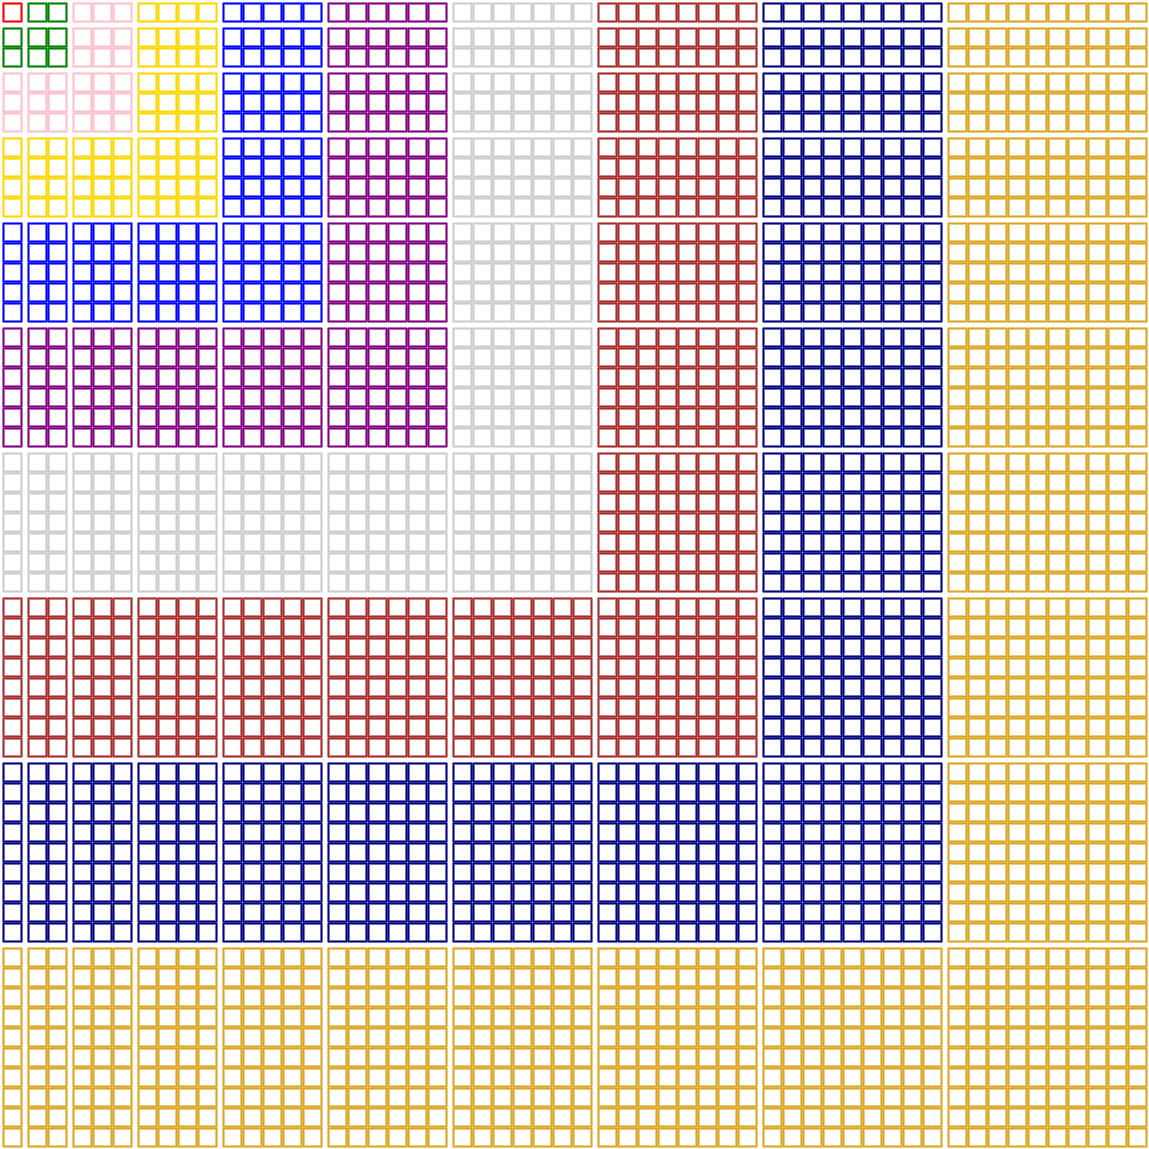
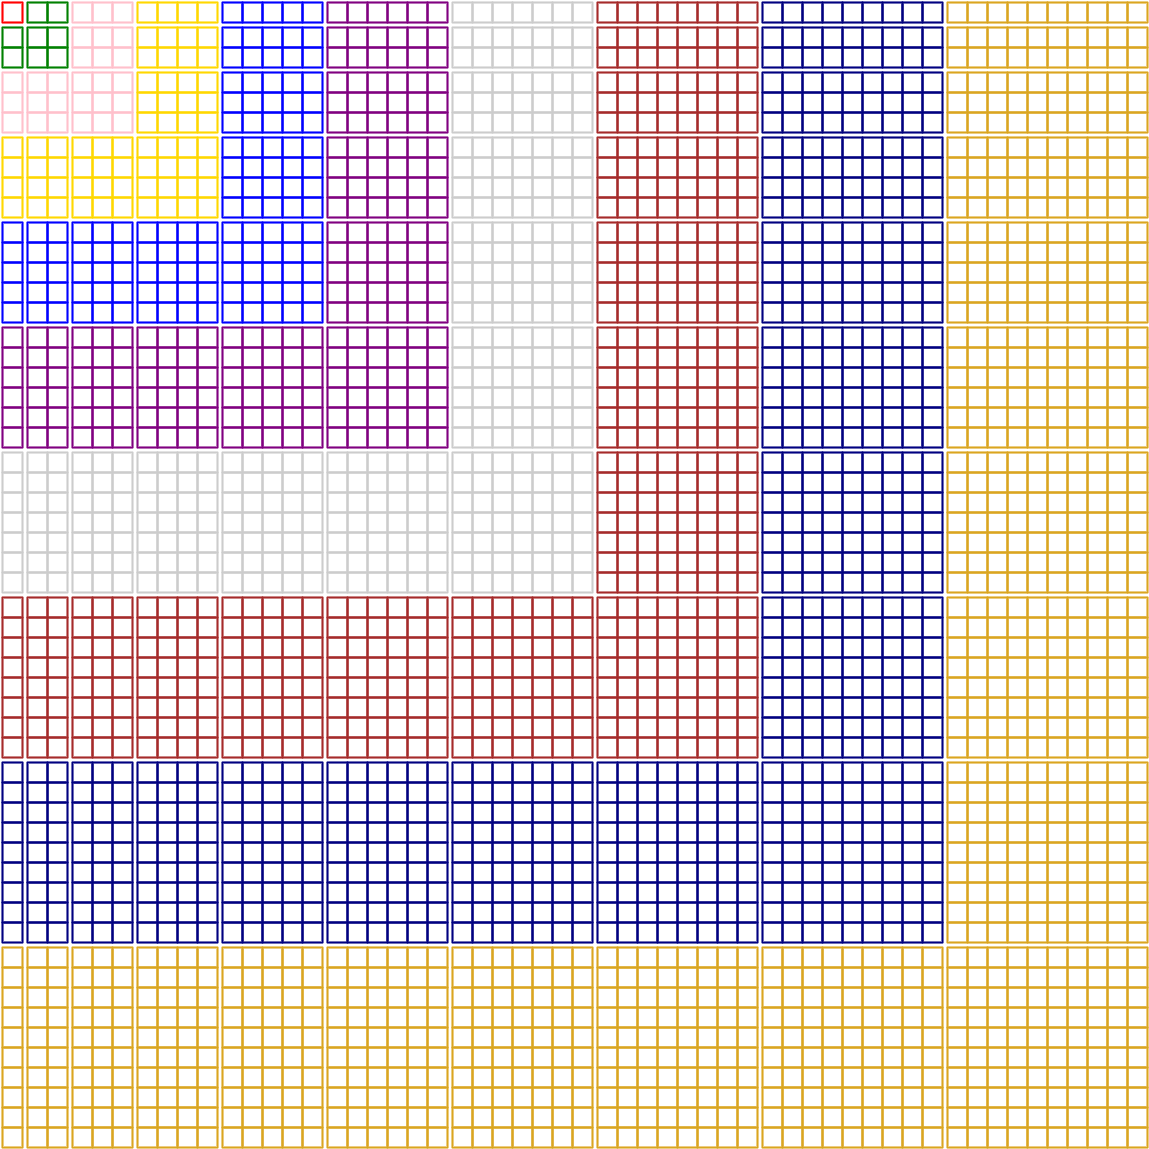
added parameter :dot_stroke_unite; renamed a bit

diff --git a/add.rb b/add.rb
@@ -75,15 +75,17 @@ module Add
             end
             param[:dot_fill] = :none
             param[:dot_strokewidth] = @h[:dot_side] * 0.1 unless @h.key?(:dot_strokewidth)
-            param[:dot_shape] = (@h[:dot_shape] == :ring) ? :circle : :rectangle
+            param[:dot_shape] = (@h[:dot_shape] == :ring) ? :circle : :square
+          elsif @h[:dot_shape] == :rectangle
+            @h[:dot_shape] = :square
           end
           @box_a << param
-          x += @h[:dot_side] * col + @h[:dot_margin] * (col - 1) + @h[:box_margin]
+          x += @h[:dot_side] * col + @h[:dot_margin] * (col - 1) + @h[:geo_margin]
         end
-        y += @h[:dot_side] * row + @h[:dot_margin] * (row - 1) + @h[:box_margin]
+        y += @h[:dot_side] * row + @h[:dot_margin] * (row - 1) + @h[:geo_margin]
       end
-      image_width = x - @h[:box_margin] + @h[:set_margin]
-      image_height = y - @h[:box_margin] + @h[:set_margin]
+      image_width = x - @h[:geo_margin] + @h[:set_margin]
+      image_height = y - @h[:geo_margin] + @h[:set_margin]
 
       " -size #{image_width}x#{image_height} xc:#{@h[:image_bg]}"
     end
@@ -111,14 +113,14 @@ module Add
         box.each_key do |key|
           @h[key] = box[key]
         end
-        @command << Add::Drawer::Box.new(@h).to_command
+        @command << Add::Drawer::Geo.new(@h).to_command
       end
       create
     end
   end
 
   module Drawer
-    class Box
+    class Geo
       def initialize(h)
         @h = h
       end
@@ -144,7 +146,7 @@ module Add
               x_o = @h[:dot_side] * 0.5 + (@h[:dot_side] + @h[:dot_margin]) * j
               y_o = @h[:dot_side] * 0.5 + (@h[:dot_side] + @h[:dot_margin]) * i
               r = @h[:dot_side] * 0.5
-              if @h[:dot_stroke] != :none
+              if @h[:dot_stroke] != :none && !@h[:dot_stroke_unite]
                 r -= @h[:dot_strokewidth] * 0.5
               end
               x_to = x_o + r
@@ -152,14 +154,14 @@ module Add
               command += " circle #{x_o},#{y_o} #{x_to},#{y_to}"
             end
           end
-        elsif @h[:dot_shape] == :rectangle
+        elsif @h[:dot_shape] == :square
           @h[:col].times do |j|
             @h[:row].times do |i|
               x_1 = @h[:dot_margin] * 0.5 + (@h[:dot_side] + @h[:dot_margin]) * j
               y_1 = @h[:dot_margin] * 0.5 + (@h[:dot_side] + @h[:dot_margin]) * i
               x_2 = x_1 + @h[:dot_side] - @h[:dot_margin]
               y_2 = y_1 + @h[:dot_side] - @h[:dot_margin]
-              if @h[:dot_stroke] != :none
+              if @h[:dot_stroke] != :none && !@h[:dot_stroke_unite]
                 swh = @h[:dot_strokewidth] * 0.5
                 x_1 += swh
                 y_1 += swh
@@ -186,8 +188,9 @@ module Add
         :dot_shape => :circle,     # 「1個」の形状
                                    #   :circle（塗りつぶす円）
                                    #   :ring（塗りつぶさない円）
-                                   #   :rectangle（塗りつぶす長方形）
-                                   #   :box（塗りつぶさない長方形）
+                                   #   :square（塗りつぶす正方形）
+                                   #   :box（塗りつぶさない正方形）
+                                   #   :rectangle（:squareと同じ; 廃止予定）
         :dot_fill => :default,     # 「1個」の塗りつぶし色
                                    #   文字列（色名）
                                    #   :none（塗りつぶさない）
@@ -196,8 +199,10 @@ module Add
                                    #   :by_row（行数+テーブル）
                                    #   :by_col（列数+テーブル）
         :dot_stroke => :none,      # 「1個」のストローク色．値は:dot_fillと同じ
+        # :dot_strokewidth => 1,   # 「1個」のストローク太さ
+        :dot_stroke_unite => true, # 隣接する各ストロークを合体させるならtrue
         :dot_margin => 0,          # 「1個」の間の余白(幅・高さ共通)
-        :box_margin => 5,          # 「一つのアレイ図」の間の余白(幅・高さ共通)
+        :geo_margin => 5,          # 「一つのアレイ図」の間の余白(幅・高さ共通)
         :set_margin => 2,          # 全体図の余白(幅・高さ共通)
 #        :unit_draw => false,       # 「一つ分の大きさ」描画の有無
 #        :unit_color => :black,     # 「一つ分の大きさ」のストローク色
@@ -221,8 +226,23 @@ if __FILE__ == $0
   h[:dot_shape] = :ring
   Add::Manager.new(h).start
 
+  if false # trueにすれば実行する
+    [:ring, :box].each do |shape|
+      [true, false].each do |opt_unite|
+        h = Add::Parameter.default
+        h[:row] = 3
+        h[:col] = 4
+        h[:dot_fill] = "blue"
+        h[:dot_shape] = shape
+        h[:dot_stroke_unite] = opt_unite
+        h[:output_filename] = "array-#{h[:row]}x#{h[:col]}-#{shape}-#{opt_unite ? '' : 'un'}united.png"
+        Add::Manager.new(h).start
+      end
+    end
+  end
+
   if false # trueにすれば実行する（時間がかかる）
-    [:circle, :ring, :rectangle, :box].each do |shape|
+    [:ring, :box, :circle, :square].each do |shape|
       h = Add::Parameter.default
       h[:row] = "1-10"
       h[:col] = "1-10"
